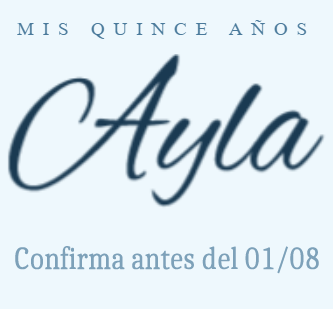
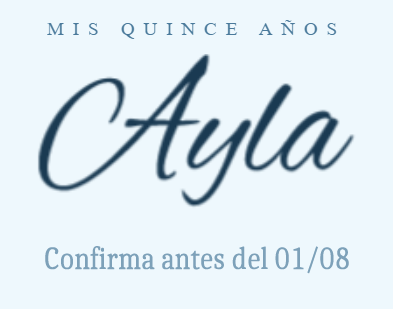
Add files via upload

diff --git a/index.html b/index.html
@@ -10,7 +10,7 @@
   <meta property="og:image" content="https://aylacumpledexv.github.io/test1/aylathumb.png">
   <meta property="og:url" content="https://aylacumpledexv.github.io/test1/">
   <meta property="og:type" content="website" />
-  <meta property="og:image:width" content="333" />
+  <meta property="og:image:width" content="393" />
   <meta property="og:image:height" content="309" />
   <link rel="preconnect" href="https://fonts.googleapis.com" />
   <link rel="preconnect" href="https://fonts.gstatic.com" crossorigin />